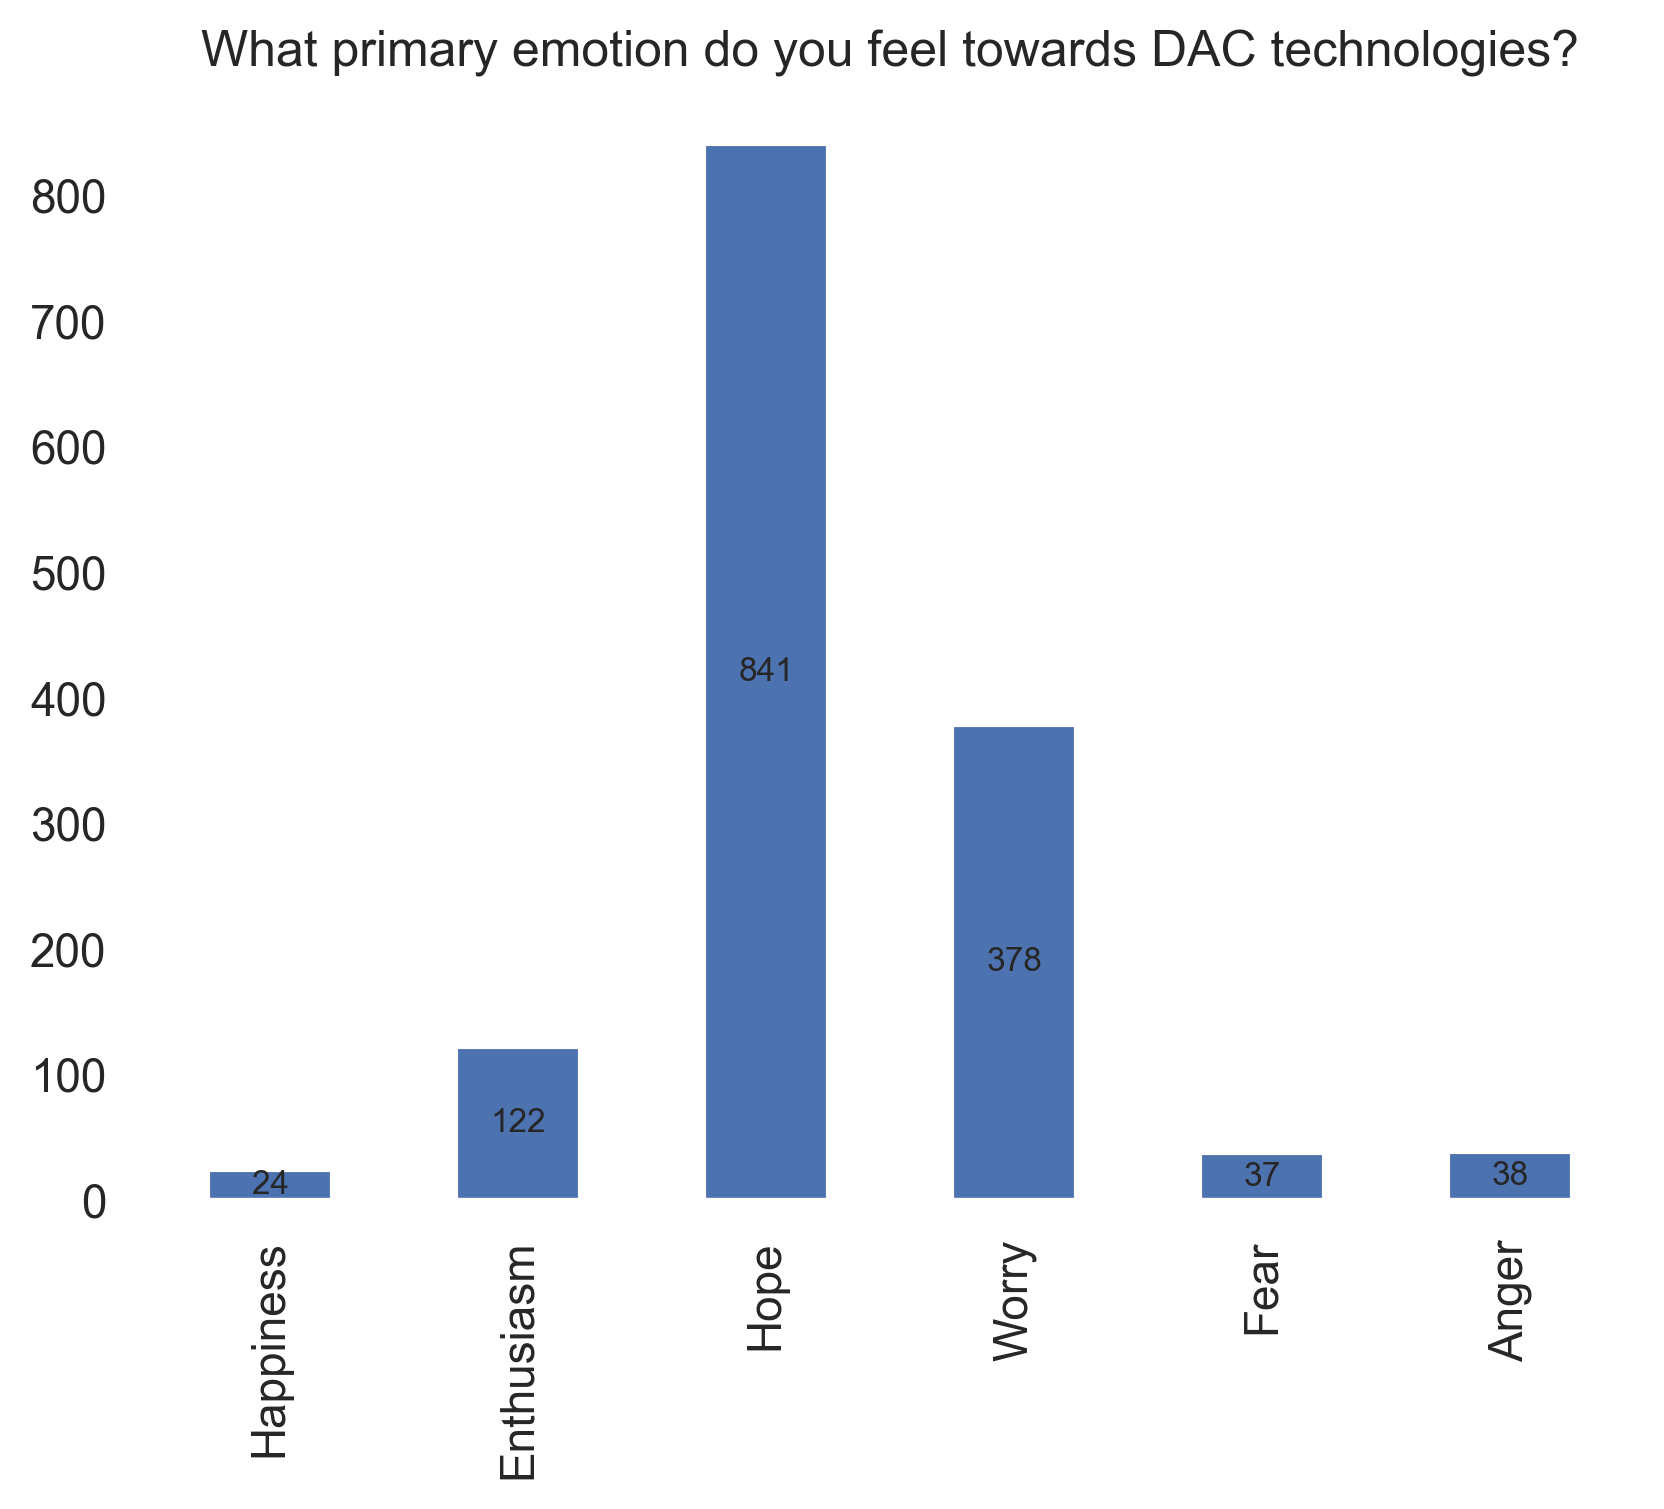
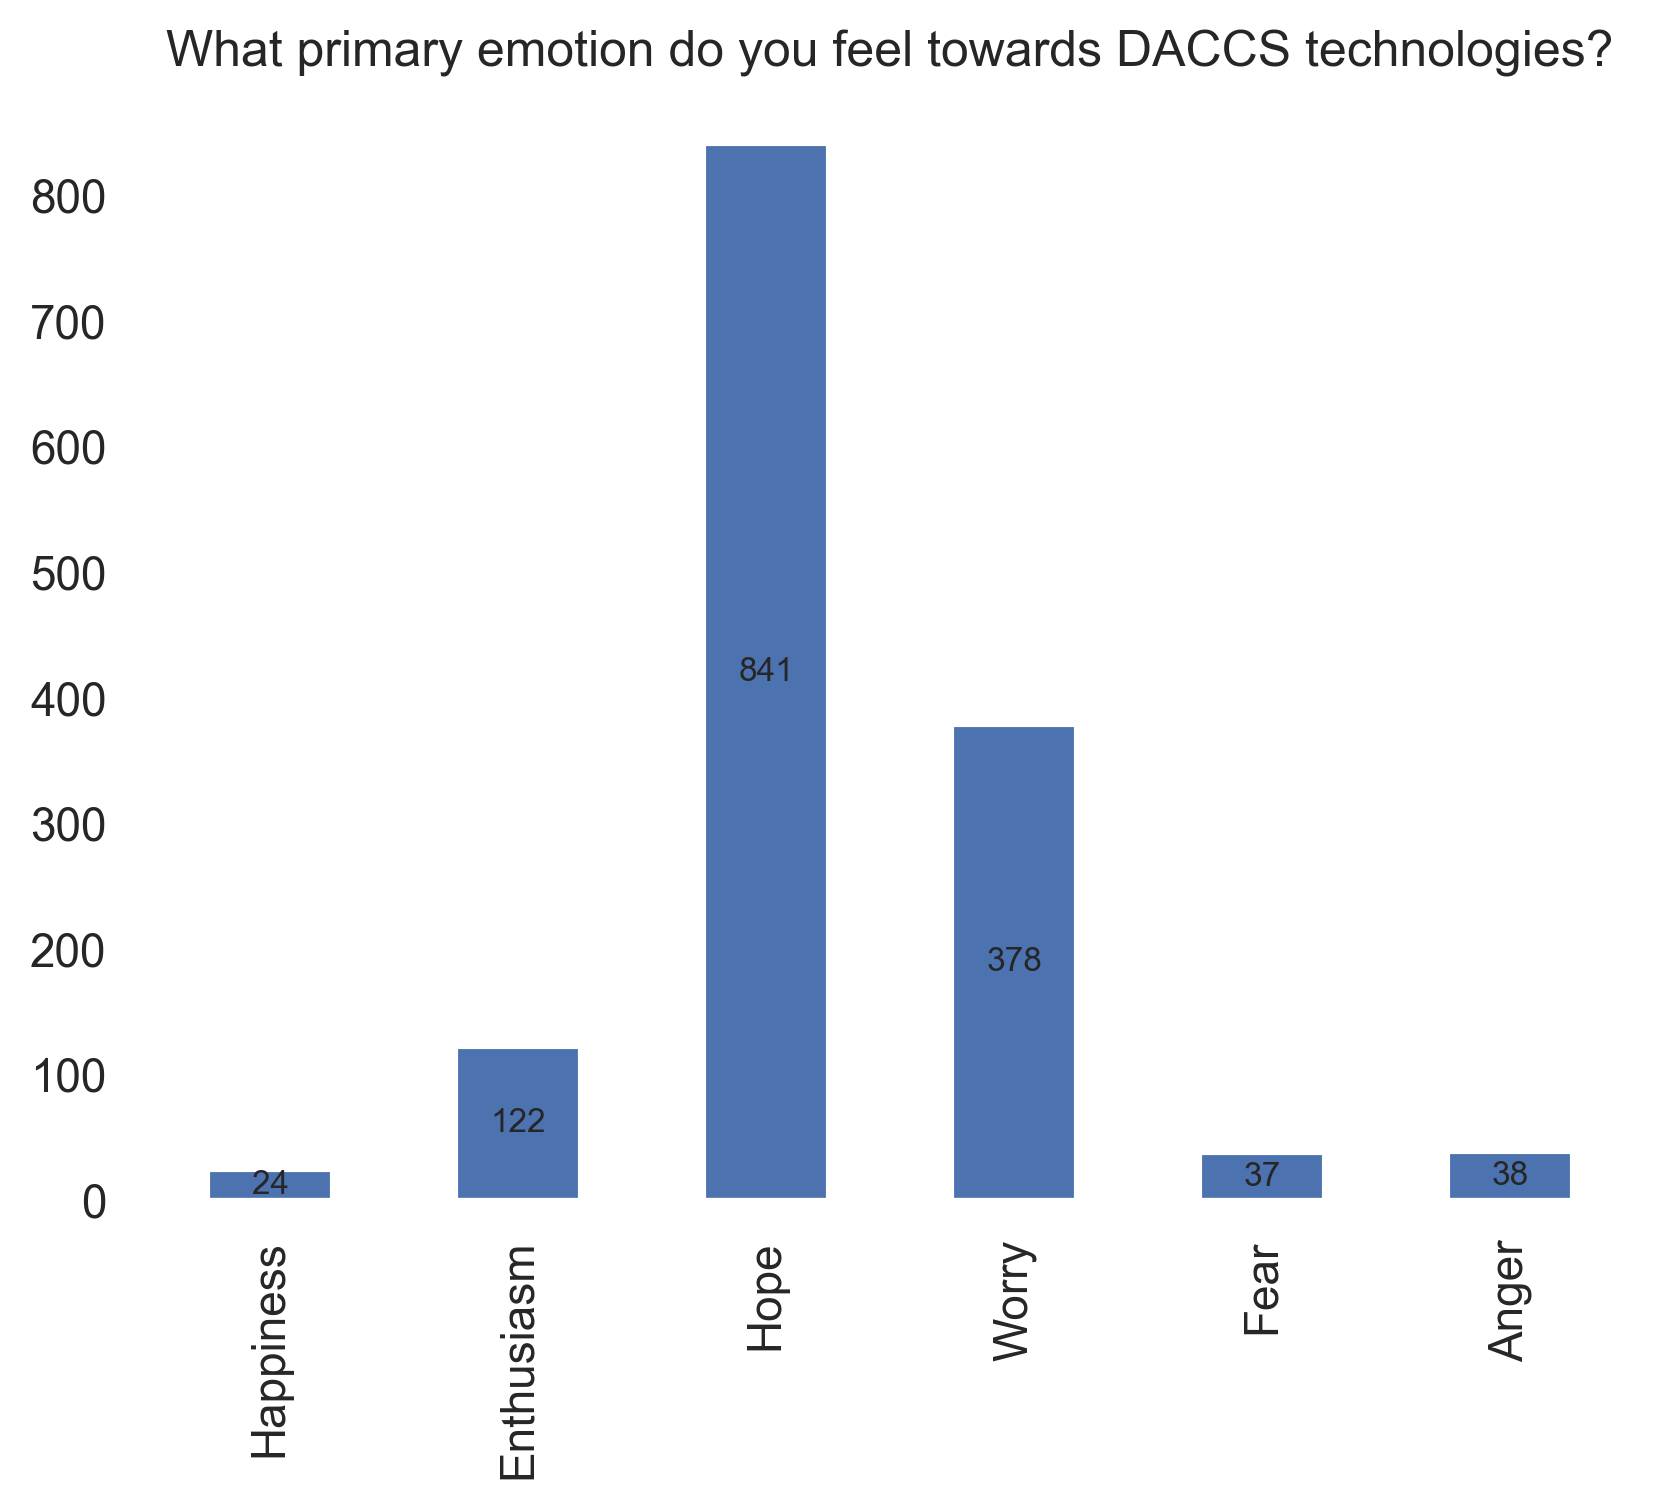
update DAC with DACCS in all lables and titles

Changed region(s): [[0.0938, 0.0, 0.9688, 0.0623]]

diff --git a/dacstore/config.py b/dacstore/config.py
@@ -388,18 +388,18 @@ translation_columns = {
     "Der Klimawandel ist ein ernstes Problem.": "Climate change is a serious problem",
     "Menschliche Aktivitäten sind die Hauptursache des Klimawandels.": "Human activities are the main cause of climate change",
     "Wir alle sollten uns bemühen, unseren CO2-Ausstoß zu reduzieren.": "We should all make an effort to reduce or CO2 emissions",
-    "Haben Sie schon von Technologien zur Entnahme von Kohlendioxid (CO2) aus der Luft (auf Englisch Direct Air Capture (DAC)) gehört?": "Have you heard about Direct Air Capture (DAC) technologies?",
-    "Wie gut sind ihre Kenntnisse dieser Technologien?": "How would you rate your knowledge of DAC? ",
+    "Haben Sie schon von Technologien zur Entnahme von Kohlendioxid (CO2) aus der Luft (auf Englisch Direct Air Capture (DAC)) gehört?": "Have you heard about Direct Air Capture and Storage (DACCS) technologies?",
+    "Wie gut sind ihre Kenntnisse dieser Technologien?": "How would you rate your knowledge of DACCS? ",
     "Haben Sie schon von Kohlendioxid (CO2)-Speicherung gehört?": "Have you heard about CO2 storage?",
     "Wie gut sind ihre Kenntnisse der CO2-Speicherungstechnologien?": "How would you rate your knowledge of CO2 Storage?",
-    "Direct Air Capture (DAC)": "Initial DAC Support",
+    "Direct Air Capture (DAC)": "Initial DACCS Support",
     "CO2-Speicherung": "Initial Storage Support",
-    "Welche Hauptemotion empfinden Sie gegenüber DAC-Technologien?": "What primary emotion do you feel towards DAC technologies?",
-    "DAC ist eine ausgereifte saubere Technologie.": "DAC is a mature clean technology",
+    "Welche Hauptemotion empfinden Sie gegenüber DAC-Technologien?": "What primary emotion do you feel towards DACCS technologies?",
+    "DAC ist eine ausgereifte saubere Technologie.": "DACCS is a mature clean technology",
     "Menschen sollten die Natur nicht auf diese Weise manipulieren.": "Humans should not be tampering with nature in this way",
     "Ich denke nicht, dass das Einbringen von CO2 in den Boden eine gute Idee ist.": "I don’t think that injecting CO2 into the ground is a good idea",
-    "Versuche, das Klimasystem durch die Anwendung von DAC zu beeinflussen, zeugen von menschlichem Hochmut.": "Trying to influence the climate system by using DAC reflects human arrogance",
-    "DAC Anlage": "DAC facility",
+    "Versuche, das Klimasystem durch die Anwendung von DAC zu beeinflussen, zeugen von menschlichem Hochmut.": "Trying to influence the climate system by using DACCS reflects human arrogance",
+    "DAC Anlage": "DACCS facility",
     "CO2-Speicherung im Boden": "CO2 storage underground",
     "CO2-Speicherung im Meeresboden": "CO2 storage in the seabed",
     "LKW": "Truck",
@@ -408,12 +408,12 @@ translation_columns = {
     "Tanker (Schiff)": "Tanker",
     "Mit keiner": "With none",
     "Weiß nicht": "Don’t know",
-    "Emissionen zu reduzieren wäre kosteneffizienter als DAC.": "Reducing CO2 emissions would be more cost efficient than using DAC",
+    "Emissionen zu reduzieren wäre kosteneffizienter als DAC.": "Reducing CO2 emissions would be more cost efficient than using DACCS",
     "100 € für die Entnahme von 1 Tonne CO2 zu zahlen, ist ein angemessener Preis.": "Paying €100 to capture 1 ton of CO2 is a reasonable price",
-    "DAC könnte dazu beitragen, schwer vermeidbare Emissionen aus Sektoren wie Landwirtschaft oder Zementproduktion zu entnehmen.": "DAC could help capture emissions from hard-to-abate sectors such as agriculture or cement production",
-    "Die Implementierung von DAC als Teil einer Gesamtstrategie kann Deutschland dabei helfen, seine Klimaziele zu erreichen und den Klimawandel auf 1,5 °C zu begrenzen.": "Including DAC as a part of an overall strategy can help Germany achieve its climate goals and limit climate change to 1.5°C",
-    "DAC ist eine effiziente Technologie zur Bekämpfung des Klimawandels.": "DAC is an efficient technology to fight climate change",
-    "DAC ist sicher.": "DAC is a safe technology",
+    "DAC könnte dazu beitragen, schwer vermeidbare Emissionen aus Sektoren wie Landwirtschaft oder Zementproduktion zu entnehmen.": "DACCS could help capture emissions from hard-to-abate sectors such as agriculture or cement production",
+    "Die Implementierung von DAC als Teil einer Gesamtstrategie kann Deutschland dabei helfen, seine Klimaziele zu erreichen und den Klimawandel auf 1,5 °C zu begrenzen.": "Including DACCS as a part of an overall strategy can help Germany achieve its climate goals and limit climate change to 1.5°C",
+    "DAC ist eine effiziente Technologie zur Bekämpfung des Klimawandels.": "DACCS is an efficient technology to fight climate change",
+    "DAC ist sicher.": "DACCS is a safe technology",
     "CO2-Speicherung ist sicher.": "CO2-Storage is a safe technology",
     "CO2-Speicherung könnte Erdbeben verursachen.": "CO2-Storage could cause earthquakes",
     "CO2-Speicherung könnte Explosionen verursachen.": "CO2-Storage could cause explosions",
@@ -425,7 +425,7 @@ translation_columns = {
     "Europäische Union": "European Union",
     "Nichtregierungs- und Umweltschutzorganisationen": "Environmental Protection Organizations and NGOs",
     "Medien": "Media",
-    "Direct Air Capture (DAC).1": "Final DAC Support",
+    "Direct Air Capture (DAC).1": "Final DACCS Support",
     "CO2-Speicherung.1": "Final Storage Support",
     "Ihre E-Mail Adresse": "Engagement",
     "Inwiefern vertrauen Sie darauf, dass diese Gruppen im Interesse der Gesellschaft handeln werden?": "How much do you trust in these groups to act in the interest of society?",

diff --git a/scripts/create-likert-plots.py b/scripts/create-likert-plots.py
@@ -186,13 +186,13 @@ def plot_knowledge(df, fname="figs/knowledge.png"):
     STORAGE_KNOWLEDGE_DE = (
         "Wie gut sind ihre Kenntnisse der CO2-Speicherungstechnologien?"
     )
-    DAC_KNOWLEDGE_EN = "How would you rate your knowledge of DAC?"
+    DAC_KNOWLEDGE_EN = "How would you rate your knowledge of DACCS?"
     STORAGE_KNOWLEDGE_EN = "How would you rate your knowledge of CO2 Storage?"
 
     labels = {
         DAC_KNOWLEDGE_DE: "Wie gut sind ihre Kenntnisse von Technologien\n zur Entnahme von Kohlendioxid (CO2) aus der Luft?",
         STORAGE_KNOWLEDGE_DE: "Wie gut sind ihre Kenntnisse\n der CO2-Speicherungstechnologien?",
-        DAC_KNOWLEDGE_EN: "How would you rate your\n knowledge of DAC?",
+        DAC_KNOWLEDGE_EN: "How would you rate your\n knowledge of DACCS?",
         STORAGE_KNOWLEDGE_EN: "How would you rate your\n knowledge of CO2 Storage?",
     }
 
@@ -228,8 +228,8 @@ def plot_support(df, fname):
         Saves a PNG to `fname`.
     """
     acceptance = [
-        "Initial DAC Support",
-        "Final DAC Support",
+        "Initial DACCS Support",
+        "Final DACCS Support",
         "Initial Storage Support",
         "Final Storage Support",
     ]
@@ -386,7 +386,7 @@ def plot_maturity(df, fname):
     None
         Saves a PNG to `fname`.
     """
-    group = ["DAC is a mature clean technology"]
+    group = ["DACCS is a mature clean technology"]
     create_likert_plot(
         df,
         fname,
@@ -420,7 +420,7 @@ def plot_cost_price(df, fname):
         Saves a PNG to `fname`.
     """
     group = [
-        "Reducing CO2 emissions would be more cost efficient than using DAC",
+        "Reducing CO2 emissions would be more cost efficient than using DACCS",
         "Paying €100 to capture 1 ton of CO2 is a reasonable price",
     ]
     create_likert_plot(
@@ -457,9 +457,9 @@ def plot_effectiveness(df, fname):
         Saves a PNG to `fname`.
     """
     group = [
-        "DAC could help capture emissions from hard-to-abate sectors such as agriculture or cement production",
-        "Including DAC as a part of an overall strategy can help Germany achieve its climate goals and limit climate change to 1.5°C",
-        "DAC is an efficient technology to fight climate change",
+        "DACCS could help capture emissions from hard-to-abate sectors such as agriculture or cement production",
+        "Including DACCS as a part of an overall strategy can help Germany achieve its climate goals and limit climate change to 1.5°C",
+        "DACCS is an efficient technology to fight climate change",
     ]
     create_likert_plot(
         df,
@@ -530,7 +530,7 @@ def plot_transport(df, fname):
 
 
 def plot_emotion(df, fname):
-    col = "What primary emotion do you feel towards DAC technologies?"
+    col = "What primary emotion do you feel towards DACCS technologies?"
     data = (
         df[col]
         .value_counts()
